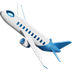
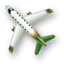
Refine 3D travel jet cursor and unify top nav item size and alignment

diff --git a/public/static/css/theme.css b/public/static/css/theme.css
@@ -353,17 +353,17 @@ img {
 }
 
 /* ==========================================================================
-   SITE-WIDE CURSOR — small 3D paper plane (travel theme)
+   SITE-WIDE CURSOR — 3D travel jet (ETHPL brand palette)
    Applied to every element so every cursor state shows the plane, over links,
    buttons and text alike. !important beats the per-element cursor rules (e.g.
-   pointer on buttons). Hotspot sits at the plane's nose (top-left). Retina
+   pointer on buttons). Hotspot sits at the plane's nose tip (3, 3). Retina
    screens get the @2x image. Falls back to the normal cursor if the image
    can't load. Touch devices have no cursor, so this is simply ignored there.
    ========================================================================== */
 *,
 *::before,
 *::after {
-  cursor: url('/static/images/cursors/cursor-plane.png') 7 10, auto !important;
+  cursor: url('/static/images/cursors/cursor-plane.png') 3 3, auto !important;
 }
 
 @media (-webkit-min-device-pixel-ratio: 2), (min-resolution: 192dpi) {
@@ -372,9 +372,9 @@ img {
   *::after {
     cursor: -webkit-image-set(
         url('/static/images/cursors/cursor-plane.png') 1x,
-        url('/static/images/cursors/cursor-plane@2x.png') 2x) 7 10, auto !important;
+        url('/static/images/cursors/cursor-plane@2x.png') 2x) 3 3, auto !important;
     cursor: image-set(
         url('/static/images/cursors/cursor-plane.png') 1x,
-        url('/static/images/cursors/cursor-plane@2x.png') 2x) 7 10, auto !important;
+        url('/static/images/cursors/cursor-plane@2x.png') 2x) 3 3, auto !important;
   }
 }

diff --git a/static/css/theme.css b/static/css/theme.css
@@ -353,17 +353,17 @@ img {
 }
 
 /* ==========================================================================
-   SITE-WIDE CURSOR — small 3D paper plane (travel theme)
+   SITE-WIDE CURSOR — 3D travel jet (ETHPL brand palette)
    Applied to every element so every cursor state shows the plane, over links,
    buttons and text alike. !important beats the per-element cursor rules (e.g.
-   pointer on buttons). Hotspot sits at the plane's nose (top-left). Retina
+   pointer on buttons). Hotspot sits at the plane's nose tip (3, 3). Retina
    screens get the @2x image. Falls back to the normal cursor if the image
    can't load. Touch devices have no cursor, so this is simply ignored there.
    ========================================================================== */
 *,
 *::before,
 *::after {
-  cursor: url('/static/images/cursors/cursor-plane.png') 7 10, auto !important;
+  cursor: url('/static/images/cursors/cursor-plane.png') 3 3, auto !important;
 }
 
 @media (-webkit-min-device-pixel-ratio: 2), (min-resolution: 192dpi) {
@@ -372,9 +372,9 @@ img {
   *::after {
     cursor: -webkit-image-set(
         url('/static/images/cursors/cursor-plane.png') 1x,
-        url('/static/images/cursors/cursor-plane@2x.png') 2x) 7 10, auto !important;
+        url('/static/images/cursors/cursor-plane@2x.png') 2x) 3 3, auto !important;
     cursor: image-set(
         url('/static/images/cursors/cursor-plane.png') 1x,
-        url('/static/images/cursors/cursor-plane@2x.png') 2x) 7 10, auto !important;
+        url('/static/images/cursors/cursor-plane@2x.png') 2x) 3 3, auto !important;
   }
 }

diff --git a/public/static/css/components.css b/public/static/css/components.css
@@ -1099,16 +1099,21 @@
      lines up with them exactly. Size/weight/font come from .nav-link. */
   display: inline-flex;
   align-items: center;
-  gap: 4px;
+  gap: 5px;
 }
 
 .dropdown-caret {
-  font-size: 0.75rem;
+  display: inline-flex;
+  align-items: center;
+  justify-content: center;
+  font-size: 0.72em;
+  line-height: 1;
+  transform: translateY(0.5px);
   transition: transform 0.2s ease;
 }
 
 .nav-item-dropdown.open .dropdown-caret {
-  transform: rotate(180deg);
+  transform: translateY(0.5px) rotate(180deg);
 }
 
 .nav-dropdown-menu {
@@ -1902,14 +1907,17 @@ button.nav-dropdown-toggle {
   -webkit-appearance: none;
   border: 0;
   background: none;
+  padding: 6px 0;
+  margin: 0;
   /* Match the plain <a> nav links exactly. `font: inherit` pulled the body
      font (DM Sans 400) and made the dropdown toggles lighter than the links,
-     so the nav read as a mix of weights. These three keep every nav item on
-     the same heading font and weight. */
+     so the nav read as a mix of weights. These keep every nav item on the
+     same heading font, size, weight and box height. */
   font-family: var(--font-heading);
-  font-size: 0.92rem;
+  font-size: 0.9375rem;
   font-weight: 600;
-  line-height: inherit;
+  letter-spacing: -0.01em;
+  line-height: 1.2;
   cursor: pointer;
 }
 

diff --git a/static/css/components.css b/static/css/components.css
@@ -1099,16 +1099,21 @@
      lines up with them exactly. Size/weight/font come from .nav-link. */
   display: inline-flex;
   align-items: center;
-  gap: 4px;
+  gap: 5px;
 }
 
 .dropdown-caret {
-  font-size: 0.75rem;
+  display: inline-flex;
+  align-items: center;
+  justify-content: center;
+  font-size: 0.72em;
+  line-height: 1;
+  transform: translateY(0.5px);
   transition: transform 0.2s ease;
 }
 
 .nav-item-dropdown.open .dropdown-caret {
-  transform: rotate(180deg);
+  transform: translateY(0.5px) rotate(180deg);
 }
 
 .nav-dropdown-menu {
@@ -1902,14 +1907,17 @@ button.nav-dropdown-toggle {
   -webkit-appearance: none;
   border: 0;
   background: none;
+  padding: 6px 0;
+  margin: 0;
   /* Match the plain <a> nav links exactly. `font: inherit` pulled the body
      font (DM Sans 400) and made the dropdown toggles lighter than the links,
-     so the nav read as a mix of weights. These three keep every nav item on
-     the same heading font and weight. */
+     so the nav read as a mix of weights. These keep every nav item on the
+     same heading font, size, weight and box height. */
   font-family: var(--font-heading);
-  font-size: 0.92rem;
+  font-size: 0.9375rem;
   font-weight: 600;
-  line-height: inherit;
+  letter-spacing: -0.01em;
+  line-height: 1.2;
   cursor: pointer;
 }
 

diff --git a/public/static/css/layout.css b/public/static/css/layout.css
@@ -150,13 +150,20 @@
   gap: 24px;
 }
 
+.nav-menu > li {
+  display: flex;
+  align-items: center;
+}
+
 .nav-link {
   font-family: var(--font-heading);
-  font-size: 0.92rem;
+  font-size: 0.9375rem;
   font-weight: 600;
+  letter-spacing: -0.01em;
   color: var(--stone-700);
   position: relative;
   padding: 6px 0;
+  margin: 0;
   transition: color var(--transition-fast);
   /* Both the <a> links and the <button> dropdown toggles carry this class.
      Giving them the same inline-flex box keeps every nav item the same height,
@@ -164,8 +171,9 @@
      sat at a different size and offset from the links. */
   display: inline-flex;
   align-items: center;
-  gap: 4px;
-  line-height: 1;
+  gap: 5px;
+  line-height: 1.2;
+  white-space: nowrap;
 }
 
 .nav-link:hover,

diff --git a/static/css/layout.css b/static/css/layout.css
@@ -150,13 +150,20 @@
   gap: 24px;
 }
 
+.nav-menu > li {
+  display: flex;
+  align-items: center;
+}
+
 .nav-link {
   font-family: var(--font-heading);
-  font-size: 0.92rem;
+  font-size: 0.9375rem;
   font-weight: 600;
+  letter-spacing: -0.01em;
   color: var(--stone-700);
   position: relative;
   padding: 6px 0;
+  margin: 0;
   transition: color var(--transition-fast);
   /* Both the <a> links and the <button> dropdown toggles carry this class.
      Giving them the same inline-flex box keeps every nav item the same height,
@@ -164,8 +171,9 @@
      sat at a different size and offset from the links. */
   display: inline-flex;
   align-items: center;
-  gap: 4px;
-  line-height: 1;
+  gap: 5px;
+  line-height: 1.2;
+  white-space: nowrap;
 }
 
 .nav-link:hover,
